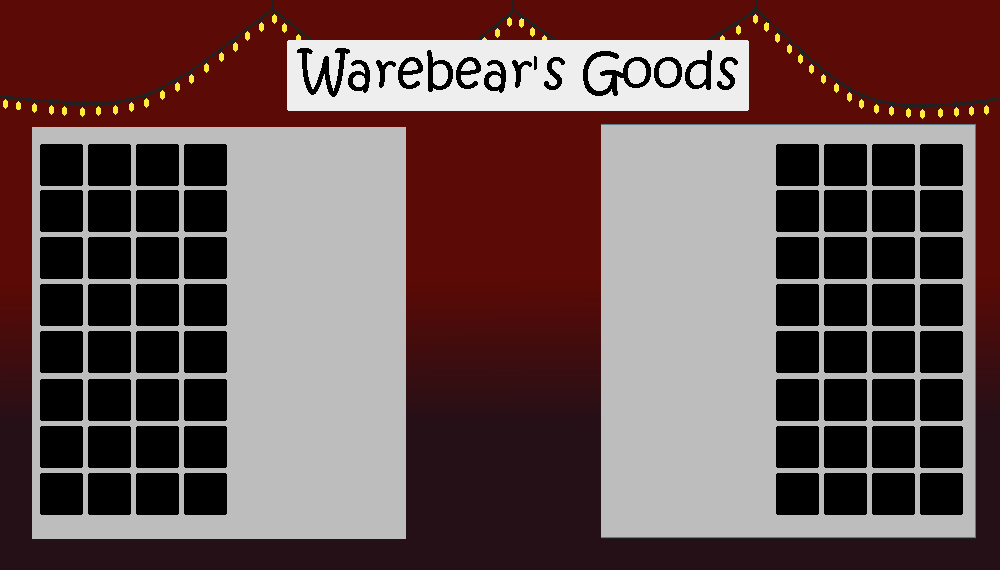
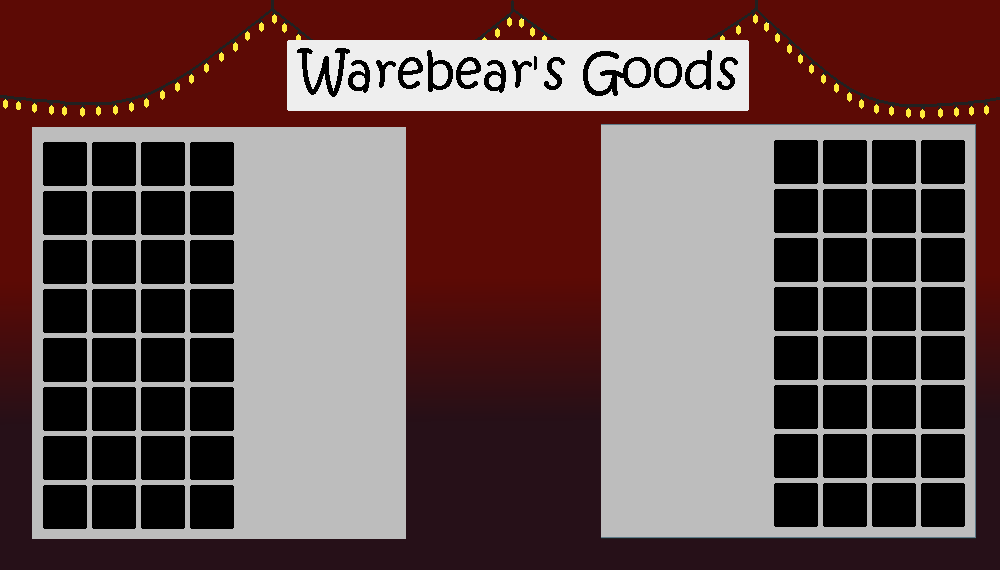
Inventory Work

diff --git a/src/view/screens/InventoryScreen.java b/src/view/screens/InventoryScreen.java
@@ -17,28 +17,35 @@ public class InventoryScreen extends GameScreen {
     /* Initialize variables *****************/
     protected CopyOnWriteArrayList<Button> buttons = new CopyOnWriteArrayList<>();
 
+    // Squares horizontal
+    private int numSQHorz = 4;
+    // Squares vertical
+    private int numSQVert = 8;
+    // Starting x and y value of Background
+    private int xValBG = 180;
+    private int yValBG = 105;
+    // Inventory square Padding
+    private int invPadding = 2;
+    // Inventory square size and distance between them x and y
+    private int invSQSize = 44;
+    private int invSQxDist = 5;
+    // X & Y Distance from image sides to first inv sq
+    private int xDistToSQ = 10;
+    private int yDistToSQ = 115;
     // Starting x value of inventory items.
-    private int xValItemsStart = 191;
+    private int xValItemsStart = xValBG + xDistToSQ + invPadding;
     // x value spacing of inventory boxes.
-    private int xValItemsSpacing = 48;
+    private int xValItemsSpacing = invSQSize + invSQxDist;
     // Last inventory square's x value
-    private int xValItemsEnd = xValItemsStart + 3*xValItemsSpacing;
+    private int xValItemsEnd = xValItemsStart + (numSQHorz-1)*xValItemsSpacing;
     // Starting x value of inventory items.
-    private int yValItemsStart = 220;
+    private int yValItemsStart = yValBG + yDistToSQ + invPadding;
     // y value spacing of inventory boxes.
-    private int yValItemsSpacing = 46;
+    private int yValItemsSpacing = invSQSize + invSQxDist;
     // Last inventory square's y value
-    private int yValItemsEnd = yValItemsStart + 7*yValItemsSpacing;
-
-    /* Array of x values for teddy item box locations
-    private int [] xValBearItems = {191, 239, 287, 335};
-
-    /* Array of x values for vendor item box locations *
-    private int [] xValVendorItems = {927, 975, 1023, 1071};
-
-    /* Array of y values for bear AND vendor item box locations
-    private int [] yValItems = {220, 266, 313, 360, 407, 455, 502, 549};*/
-
+    private int yValItemsEnd = yValItemsStart + (numSQVert-1)*yValItemsSpacing;
+    // Number of squares right of first
+    // Number of squares below first
     /* x and y positions for text */
     private int x_position = 400;
     private int y_position = 220;
@@ -47,9 +54,8 @@ public class InventoryScreen extends GameScreen {
     private boolean updateInventory = false;
     /* ****************************************/
 
-    /* Remove after testing. Create arrays for bear's and vendor's items (identified by image name here) **/
+    /* TODO: Remove after testing. Create arrays for bear's and vendor's items (identified by image name here) **/
     private CopyOnWriteArrayList<Item> bearInventory;
-    private CopyOnWriteArrayList<Item> vendorInventory;
 
 
     public InventoryScreen(ScreenManager screenManager) {
@@ -57,16 +63,27 @@ public class InventoryScreen extends GameScreen {
         name = "InventoryScreen";
         exclusivePopup = true;
 
-        /* Remove after testing. Populates inventories with items **/
+        /* TODO Remove after testing. Populates inventories with items **/
         bearInventory = new CopyOnWriteArrayList<>();
-        bearInventory.add(new Sword());
-        bearInventory.add(new Potion());
-        bearInventory.add(new Potion());
-        bearInventory.add(new Sword());
-        bearInventory.add(new Helmet());
+        bearInventory.add(new Sword());bearInventory.add(new Sword());bearInventory.add(new Helmet());bearInventory.add(new Helmet());
+        bearInventory.add(new Sword());bearInventory.add(new Sword());bearInventory.add(new Helmet());bearInventory.add(new Helmet());
+        bearInventory.add(new Sword());bearInventory.add(new Sword());bearInventory.add(new Helmet());bearInventory.add(new Helmet());
+        bearInventory.add(new Sword());bearInventory.add(new Sword());bearInventory.add(new Helmet());bearInventory.add(new Helmet());
+        bearInventory.add(new Sword());bearInventory.add(new Sword());bearInventory.add(new Helmet());bearInventory.add(new Helmet());
+        bearInventory.add(new Sword());bearInventory.add(new Sword());bearInventory.add(new Helmet());bearInventory.add(new Helmet());
+        bearInventory.add(new Sword());bearInventory.add(new Sword());bearInventory.add(new Helmet());bearInventory.add(new Helmet());
+        bearInventory.add(new Sword());bearInventory.add(new Sword());bearInventory.add(new Helmet());bearInventory.add(new Helmet());
 
     }
-
+    /**
+     * This resize method is used to resize a BufferedImage
+     * to a new width and heigth.
+     * show the usage of various javadoc Tags.
+     * @param img This parameter is the BufferedImage to resize
+     * @param newW  This parameter is new width of the image
+     * @param newH  This parameter is new heigth of the image
+     * @return BufferedImage This returns the resized image as a new BufferedImage
+     */
     public static BufferedImage resize(BufferedImage img, int newW, int newH) {
         Image tmp = img.getScaledInstance(newW, newH, Image.SCALE_SMOOTH);
         BufferedImage dimg = new BufferedImage(newW, newH, BufferedImage.TYPE_INT_ARGB);
@@ -92,8 +109,17 @@ public class InventoryScreen extends GameScreen {
             /* Get images **/
             BufferedImage backgroundIMG = RenderEngine.convertToARGB(
                     ImageIO.read(getClass().getResource("/assets/backgrounds/BG-Inventory.png")));
-
-            /* TODO: Change to reflect current user's bear **/
+            // Get Labels
+            BufferedImage equippedLabelIMG = RenderEngine.convertToARGB(ImageIO.read(getClass()
+                    .getResource("/assets/labels/Label-Equipped.png")));
+            BufferedImage itemsLabelIMG = RenderEngine.convertToARGB(ImageIO.read(getClass()
+                    .getResource("/assets/labels/Label-Items.png")));
+            BufferedImage pauseMenuLabelIMG = RenderEngine.convertToARGB(ImageIO.read(getClass()
+                    .getResource("/assets/labels/Label-Pause-Menu.png")));
+            BufferedImage selectedItemLabelIMG = RenderEngine.convertToARGB(ImageIO.read(getClass()
+                    .getResource("/assets/labels/Label-Selected-Item.png")));
+            /* TODO: Change to reflect current user's bear */
+            /* TODO: Fix Bear Height */
             BufferedImage teddyImageIMG = RenderEngine.convertToARGB(
                     ImageIO.read(getClass().getResource("/assets/Teddy.png")));
             BufferedImage teddyResizeIMG = resize( teddyImageIMG, 100, 136);
@@ -101,10 +127,12 @@ public class InventoryScreen extends GameScreen {
             /* Create main buttons and item buttons */
             createButtons();
             createItemButtons();
-
             /* Create all renderables **/
-            renderableLayers.get(0).add(new ImageContainer(150, 75, backgroundIMG, 0));
+            renderableLayers.get(0).add(new ImageContainer(xValBG, yValBG, backgroundIMG, 0));
             renderableLayers.get(0).add(new ImageContainer(415, 413, teddyResizeIMG, 0));
+            // TODO Change these positions to use the size of the labels and their middle to find where they should be
+            renderableLayers.get(0).add(new ImageContainer(xValBG + xDistToSQ,  yValBG + yDistToSQ/16, pauseMenuLabelIMG, 0));
+            renderableLayers.get(0).add(new ImageContainer(xValBG + xDistToSQ + (3*(invSQSize/2)),  yValBG + 5*(yDistToSQ/8), itemsLabelIMG, 0));
 
             for (Button button : buttons)
                 renderableLayers.get(button.getDrawLayer()).add(button);
@@ -222,7 +250,7 @@ public class InventoryScreen extends GameScreen {
                     ImageIO.read(getClass().getResource("/assets/buttons/Button-Vendor-Exit.png")));
 
             /* Create buttons **/
-            buttons.add(new Button(175, 100, exitButtonIMG, 1,
+            buttons.add(new Button(800, 400, exitButtonIMG, 1,
                     (screenManager1 -> {
                         Debug.success(DebugEnabler.BUTTON_LOG, "Clicked Button - Exit Vendor");
                         this.setScreenState(ScreenState.TransitionOff);
